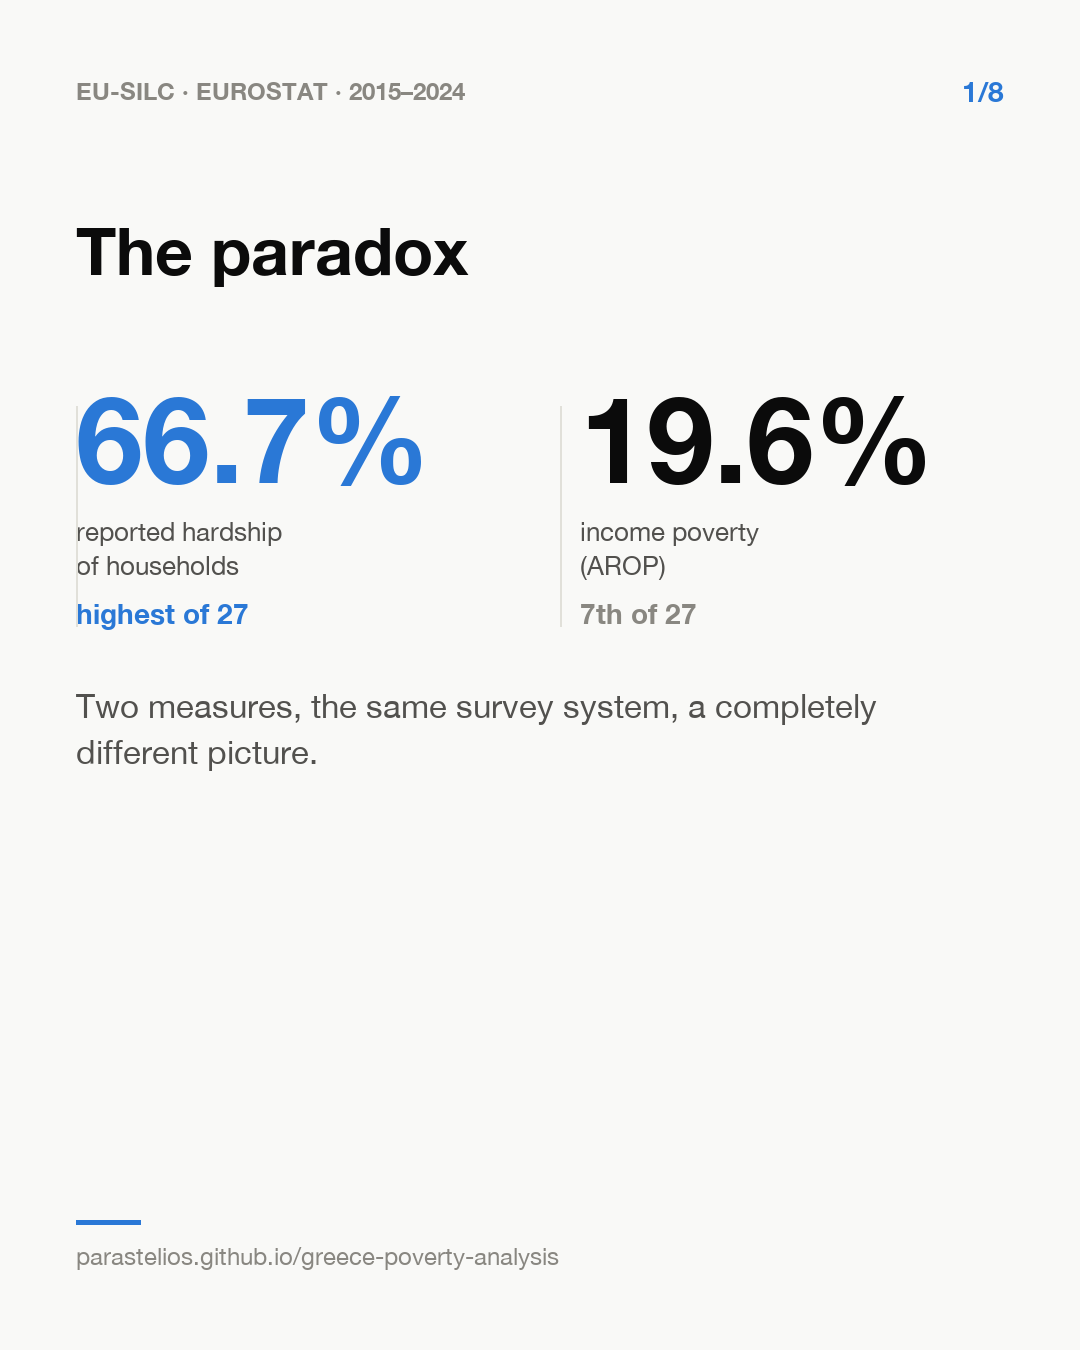
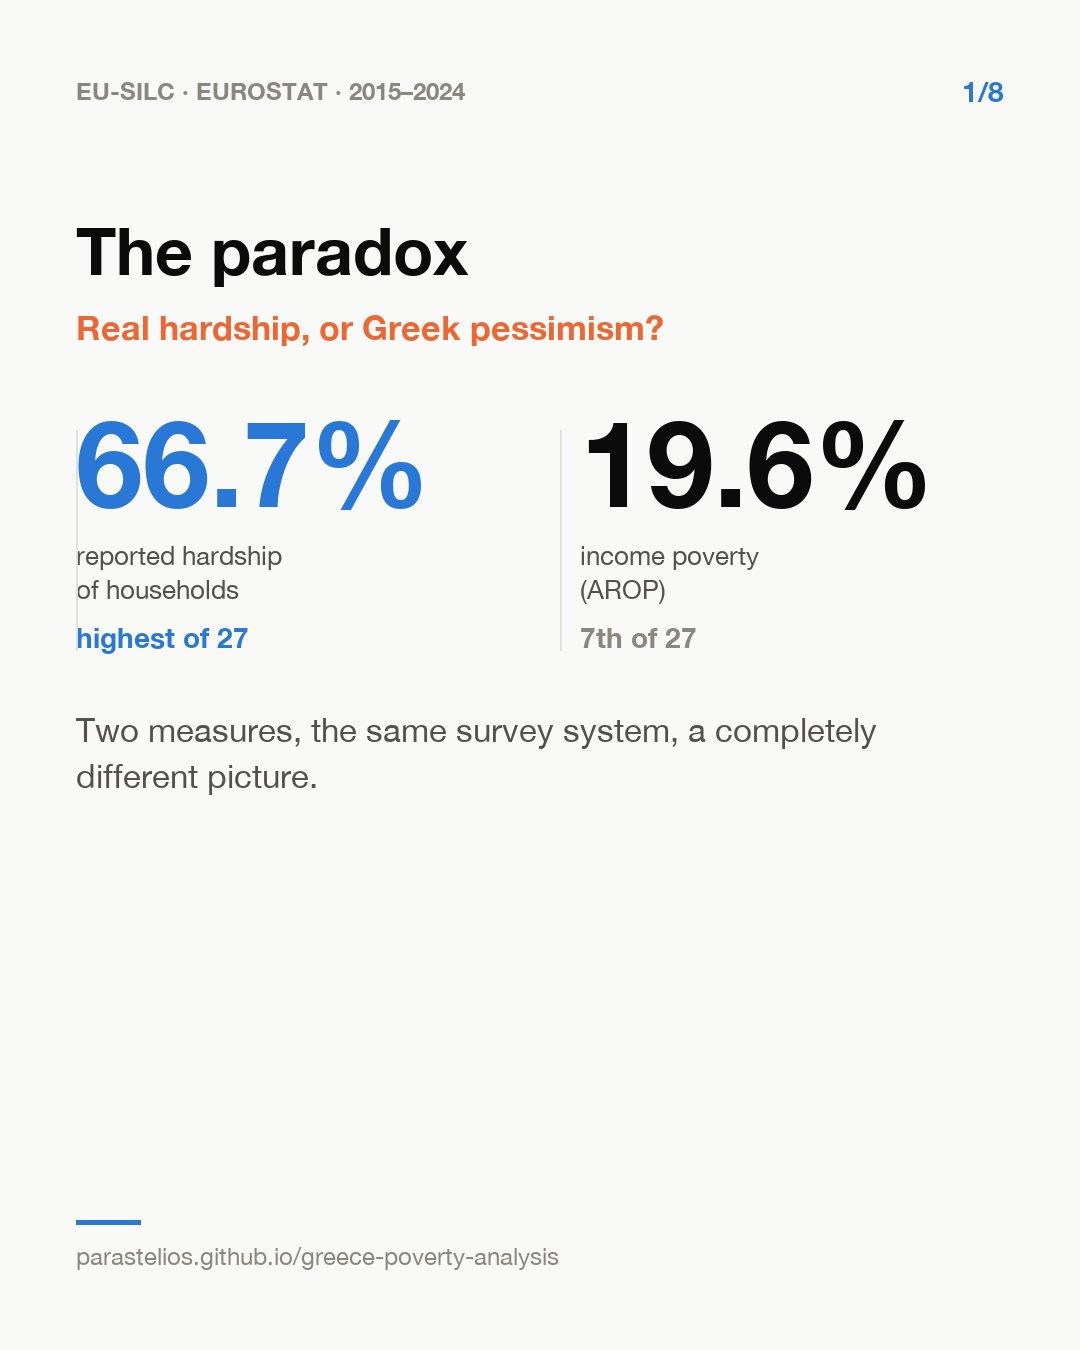
Landing pages: sharpen the central question, fix card 5's data mismatch
Rewrites the two research questions to name the actual public-narrative
tension directly ("is the hardship real, or just Greek pessimism") instead
of the more neutral framing that undersold what the project actually
tests.

Four carousel-card corrections from visual review:
- Card 1 now opens with the question being tested, not just the two
  numbers.
- Card 3's sparklines now plot reported hardship alongside each material
  indicator on a shared scale, so their co-movement is visible rather
  than only asserted in the caption.
- Card 5 was showing current-level trajectories (2015-2024) under an
  "accumulated weight" title -- a real data/title mismatch. Replaced
  with the actual F11 accumulated measures (accumulated unemployment,
  years of wages below 2008, housing-cost deterioration since 2010),
  each with Greece's real EU rank: 1st, 2nd, and 1st of 27.
- Card 8's close now answers the opening question directly and states
  plainly that relief hasn't arrived, rather than "recovery was uneven."

Changed region(s): [[0.0611, 0.2178, 0.8556, 0.5911], [0.3056, 0.2178, 0.6111, 0.2489]]

diff --git a/site/el.html b/site/el.html
@@ -155,13 +155,13 @@ footer a{color:var(--text-secondary)}
     <div class="rq-items">
       <div class="rq-item">
         <span class="rq-num">01</span>
-        <div><h3>Τι μετρούν πραγματικά οι δύο δείκτες;</h3>
-        <p>Καταγράφουν το ίδιο πρόβλημα με διαφορετικό τρόπο ή διαφορετικές πλευρές της οικονομικής ζωής;</p></div>
+        <div><h3>Είναι η οικονομική δυσκολία πραγματική ή απλώς ελληνική απαισιοδοξία;</h3>
+        <p>Συμβαδίζουν οι απαντήσεις των νοικοκυριών με συγκεκριμένες υλικές δυσκολίες ή αποτελούν κυρίως διαφορετικό τρόπο απάντησης;</p></div>
       </div>
       <div class="rq-item">
         <span class="rq-num">02</span>
-        <div><h3>Τι βρίσκεται μέσα στο χάσμα;</h3>
-        <p>Πόσο συνδέεται με τις σημερινές συνθήκες, πόσο με το συσσωρευμένο βάρος της κρίσης και πόσο παραμένει ανεξήγητο;</p></div>
+        <div><h3>Αν η δυσκολία είναι πραγματική, γιατί δεν την καταγράφει η επίσημη εικόνα της ανάκαμψης;</h3>
+        <p>Τι προσθέτουν οι σημερινές συνθήκες, τι προσθέτει το συσσωρευμένο βάρος της κρίσης και τι παραμένει ανεξήγητο;</p></div>
       </div>
     </div>
     <a class="rq-link" href="https://github.com/parastelios/greece-poverty-analysis/blob/main/docs/project_description.md">Πώς έγινε η έρευνα και ποια είναι τα όριά της →</a>

diff --git a/site/index.html b/site/index.html
@@ -155,13 +155,13 @@ footer a{color:var(--text-secondary)}
     <div class="rq-items">
       <div class="rq-item">
         <span class="rq-num">01</span>
-        <div><h3>What do the two measures actually capture?</h3>
-        <p>Are they recording the same problem in different ways, or different sides of economic life?</p></div>
+        <div><h3>Is the hardship real, or just Greek pessimism?</h3>
+        <p>Do households' own answers track specific material difficulties, or are they mainly a different way of answering?</p></div>
       </div>
       <div class="rq-item">
         <span class="rq-num">02</span>
-        <div><h3>What lies inside the gap?</h3>
-        <p>How much connects to present-day conditions, how much to the accumulated weight of the crisis, and how much remains unexplained?</p></div>
+        <div><h3>If the hardship is real, why doesn't the official picture of recovery capture it?</h3>
+        <p>What do present-day conditions add, what does the accumulated weight of the crisis add, and what remains unexplained?</p></div>
       </div>
     </div>
     <a class="rq-link" href="https://github.com/parastelios/greece-poverty-analysis/blob/main/docs/project_description.md">How the research was done and where its limits are →</a>
